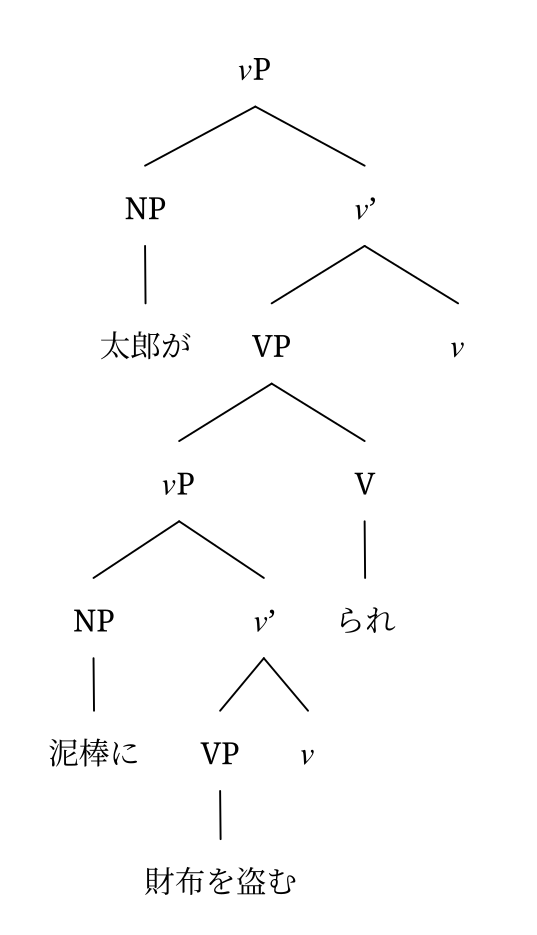
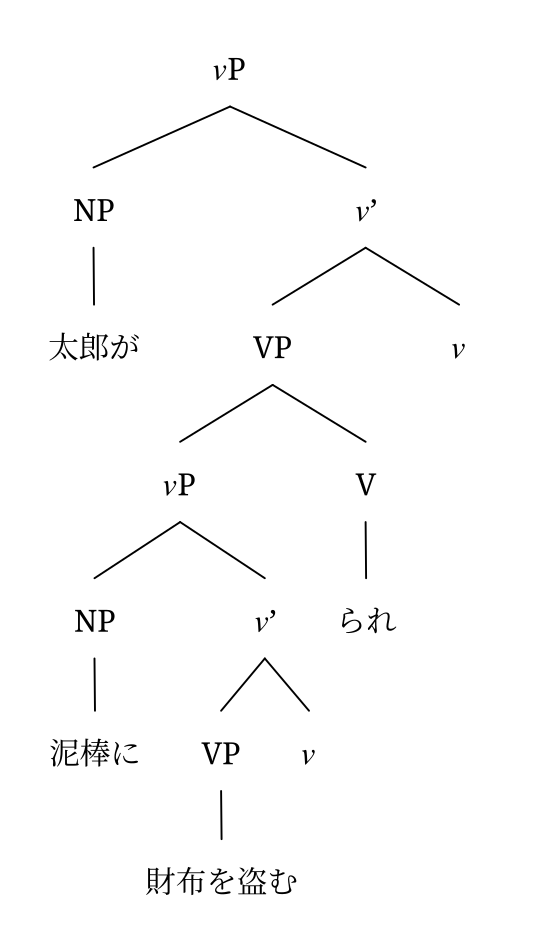
Use tidy: medium for 008; simplify the bracket-escape example (053)
- 008 now demonstrates the middle tidy level (it was the only figure
  where medium and high differ little, and the gallery had no medium
  example)
- 053 made every escaped bracket its own node, which obscured the point.
  The brackets now sit inside leaf text (x[2][3][4] as a left-branching
  postfix chain), which is both the natural analysis and a clearer
  demonstration of escaping

diff --git a/docs/_examples/053.md b/docs/_examples/053.md
@@ -14,22 +14,13 @@ font: "Noto Serif"
 ---
 ```
 [expr
-  [id x]
-  [suffix
-    \[
-    [id 2 ]
-    \]
-    [suffix
-      \[
-      [id 3 ]
-      \]
-      [suffix
-        \[
-        [id 4 ]
-        \]
-      ]
+  [expr
+    [expr
+      [id x]
+      [suffix \[2\]]
     ]
+    [suffix \[3\]]
   ]
+  [suffix \[4\]]
 ]
-  
 ```

diff --git a/docs/_examples/008.md b/docs/_examples/008.md
@@ -9,7 +9,7 @@ connector: "auto"
 connector_height: "1.2"
 linewidth: "1"
 hide_default_connectors: "off"
-tidy: "high"
+tidy: "medium"
 hspacing: "1.5"
 font: "Noto Serif"
 reference:
